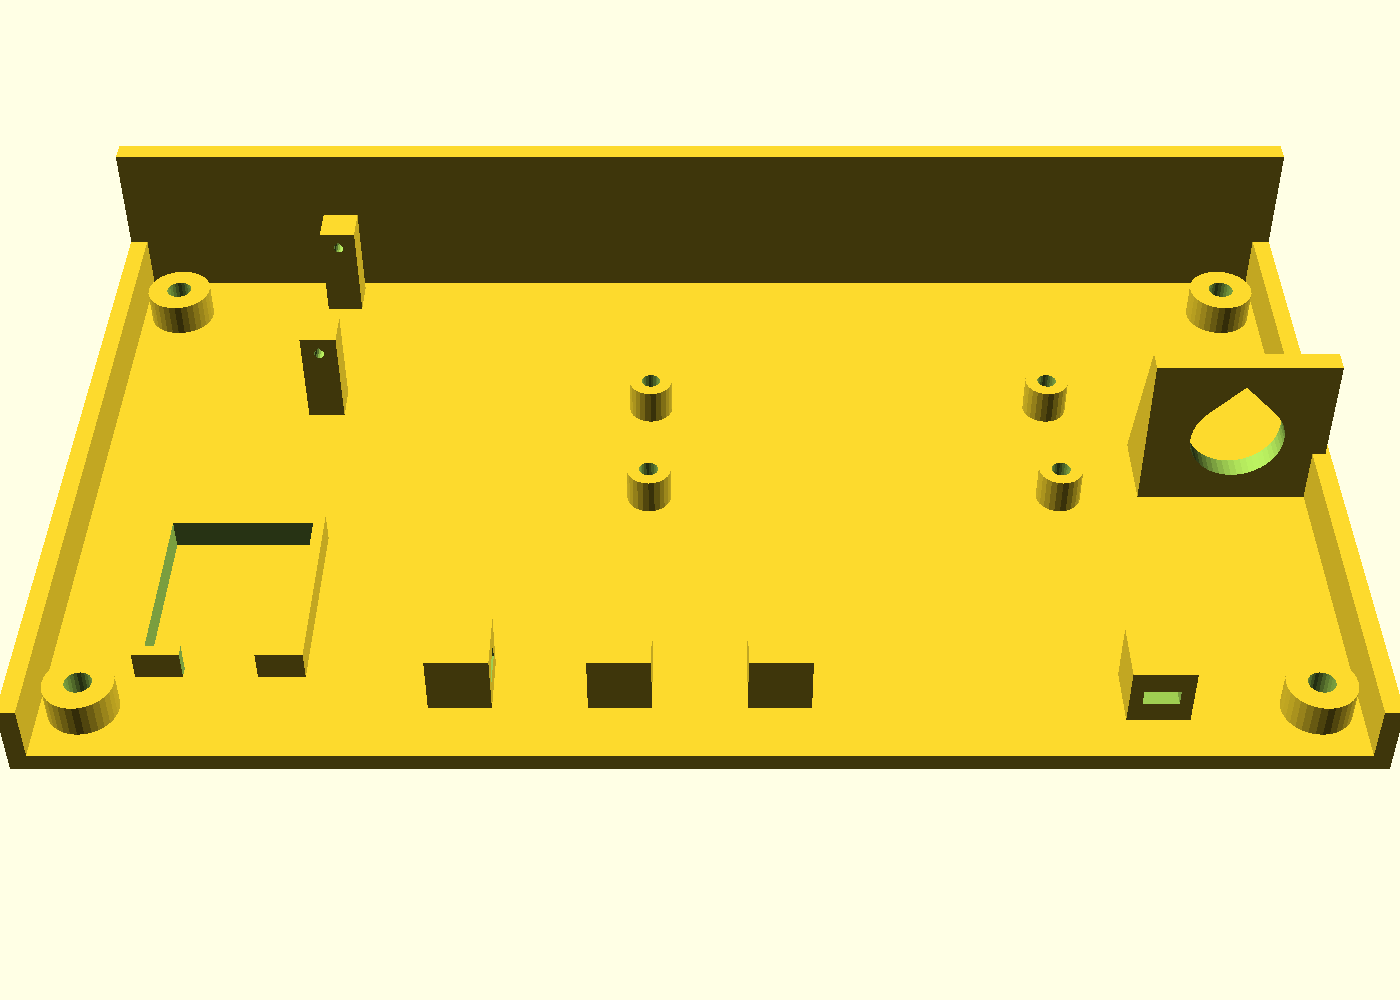
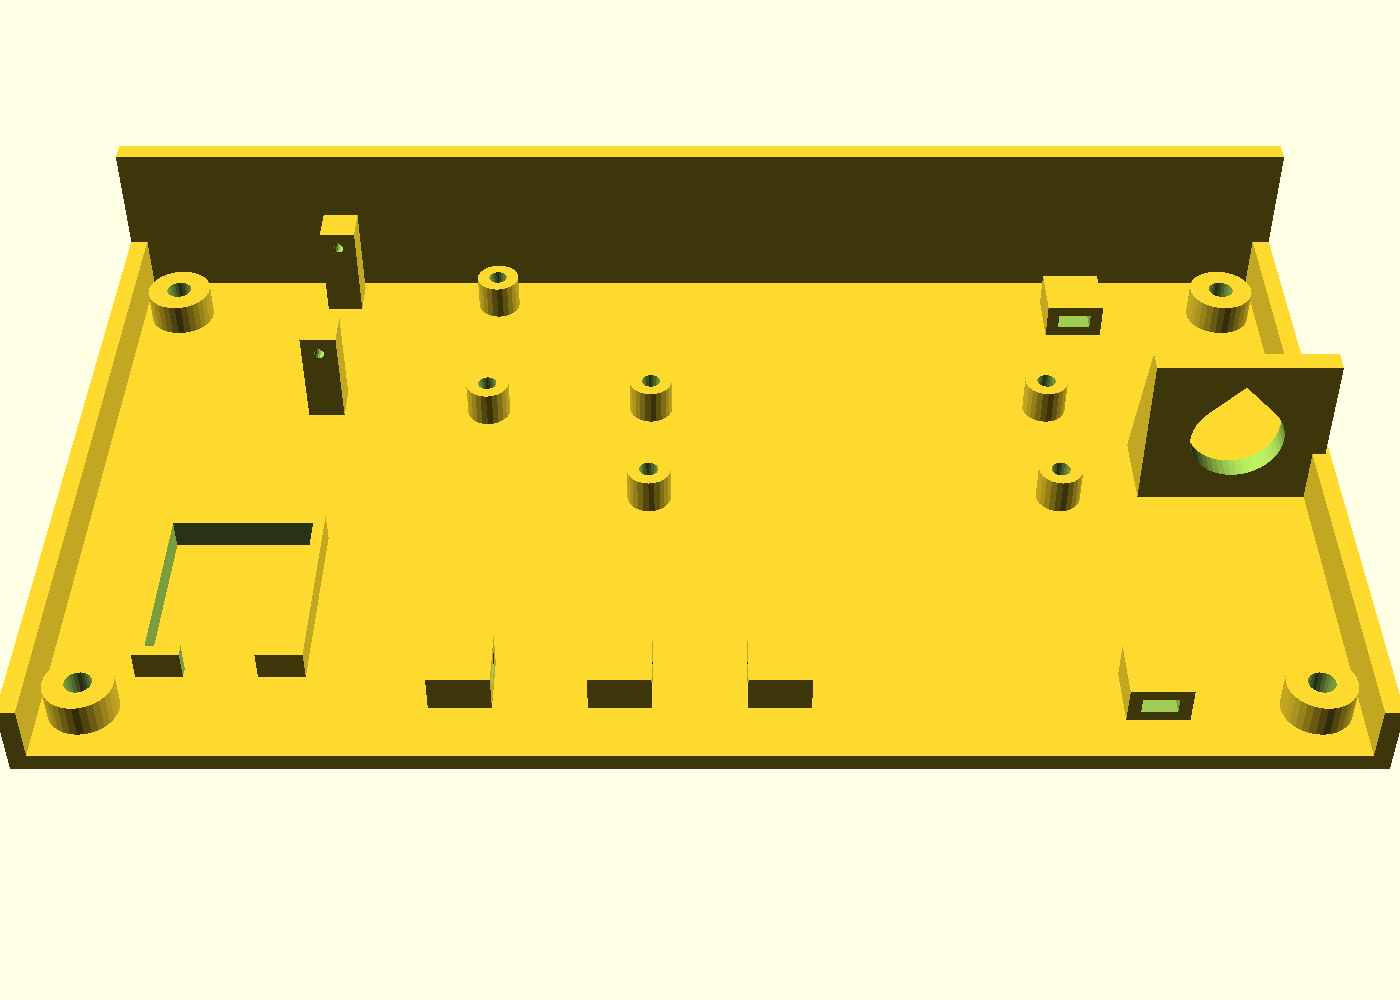
Tacka elektroniki: miejsce zapasowe 20 × 30 na 2 × M3, uchwyt opaski przewodów gniazda USB-C (lista końcowa elektroniki)
Siatka OK, kolizje: pusto.

diff --git a/20-analizy/2026-10-25-podstawka-model.md b/20-analizy/2026-10-25-podstawka-model.md
@@ -328,3 +328,4 @@ Kontrole: siatka tacki 0 błędów, 1 bryła, 170 × 100 × 25; kolizje szufladk
 - nad PCA9685 do płyty ok. 31 mm (wtyki Dupont i gięcie ok. 25).
 Kontrole: siatka OK, kolizje szufladki z tacką: pusto. Wymiary płytek i gniazda nadal do pomiaru.
 - **Rezystor (doprecyzowanie elektroniki 26.10):** 47 Ω / 3 W, korpus Ø6 × 17, nóżki osiowe, nagrzewa się do 55–60 °C, więc nie może dotykać PLA. Uchwyty z opaskami zastąpiłem 2 słupkami 5 × 5 × 13,5 w rozstawie 25 (x 32, y 68 i 93). W każdym słupku jest poziomy otwór Ø1,4 (łza) na nóżkę, oś 11 nad dnem: korpus 8 nad dnem, 1,5 od słupków, 8 od tylnego pasa, 26 od PCA9685. Końce nóżek wychodzą na zewnątrz słupków pod przewody do zacisku V+/GND. Siatka i kolizje: OK.
+- **Lista końcowa elektroniki (26.10):** dodane miejsce zapasowe na małą płytkę 20 × 30 (2 słupki Ø6 × 5 z otworami M3 Ø2,6 w rozstawie 25; x 45–65, y 64–94 – mieści się między rezystorem a PCA9685 bez przesuwania reszty) i uchwyt opaski na przewody gniazda USB-C w drodze do zacisku (x 140, y 88). Wyłącznik i przycisk idą w drewnianą ściankę – nie na tackę. Siatka i kolizje: OK.
